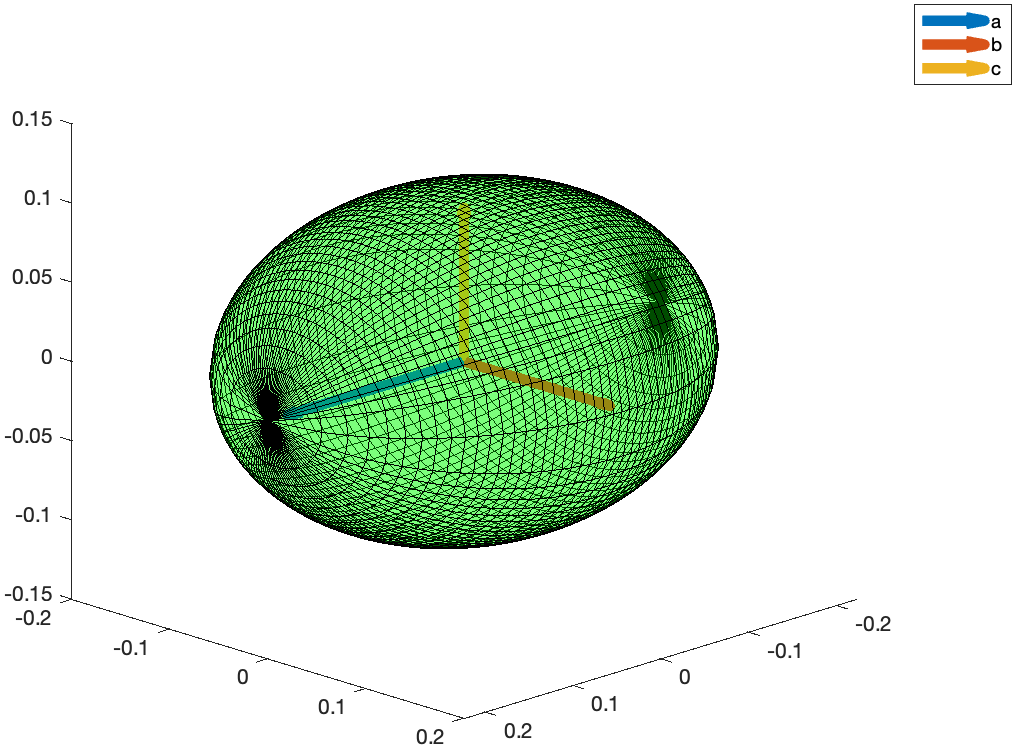
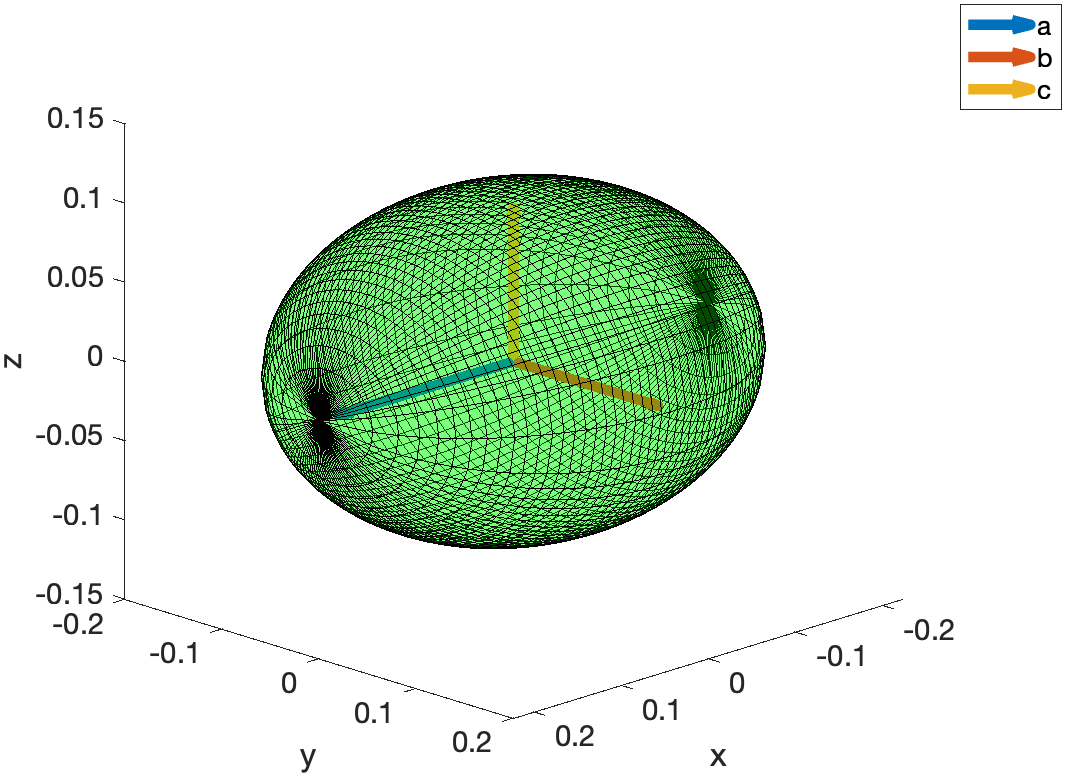
increased axis fontsize

diff --git a/Code/genPlots.m b/Code/genPlots.m
@@ -71,6 +71,11 @@ function genPlots(Icm_prime, name, flag)
     quiver3(0,0,0, 0, b_energy,0, 'LineWidth', 5, 'DisplayName', 'b')
     quiver3(0,0,0, 0, 0,c_energy, 'LineWidth', 5, 'DisplayName', 'c')
     view([1 1 0.5])
+    ax = gca();
+    ax.FontSize = 14;
+    xlabel('x')
+    ylabel('y')
+    zlabel('z')
     legend
     exportgraphics(gcf, ['../Images/energy_axes_', name, '.png'])
     
@@ -101,6 +106,11 @@ function genPlots(Icm_prime, name, flag)
     quiver3(0,0,0, 0, b_mom,0, 'LineWidth', 5, 'DisplayName', 'b')
     quiver3(0,0,0, 0, 0,c_mom, 'LineWidth', 5, 'DisplayName', 'c')
     view([1 1 0.5])
+    ax = gca();
+    ax.FontSize = 14;
+    xlabel('x')
+    ylabel('y')
+    zlabel('z')
     legend
     exportgraphics(gcf, ['../Images/momentum_axes_', name, '.png'])
 
